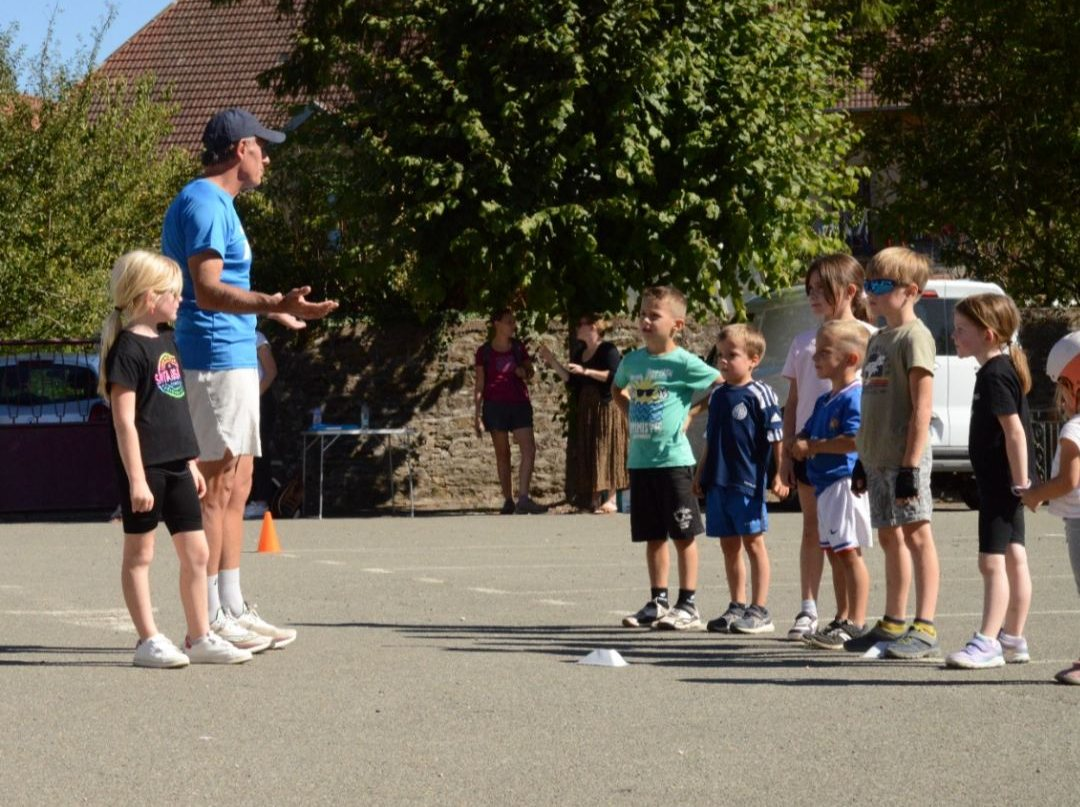
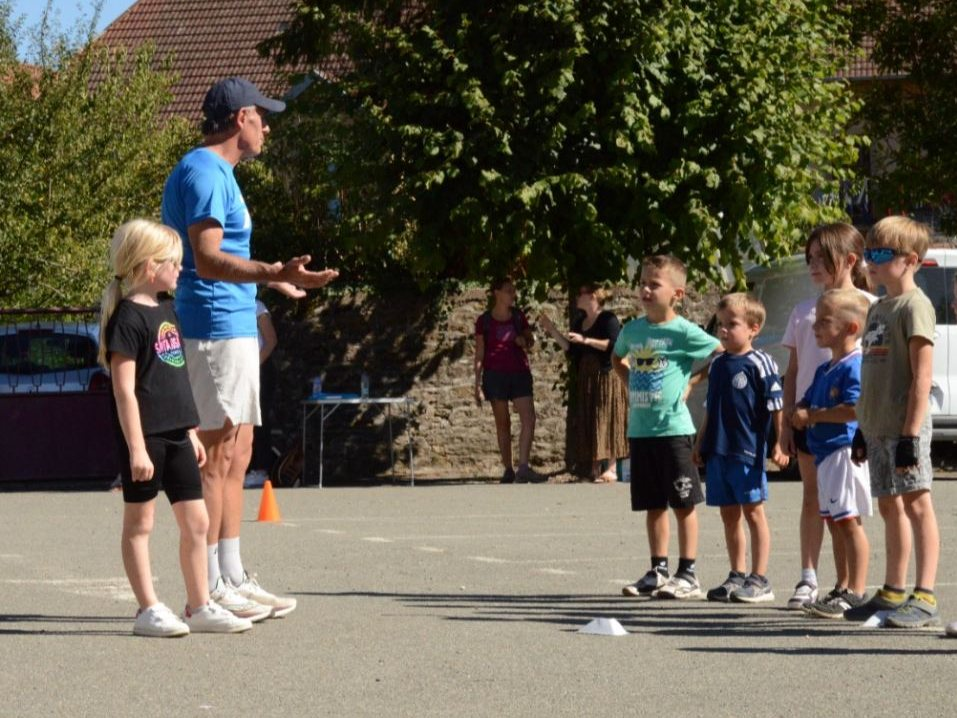
Photos : plus personne coupée, photo floue remplacée, photo verticale remise entière

diff --git a/index.html b/index.html
@@ -48,8 +48,8 @@
         <p style="margin-top:22px"><a href="le-club.html" class="more">Découvrir le club et le projet du président</a></p>
       </div>
       <figure class="figure">
-        <img src="images/campagne-velos.jpg" alt="Des enfants du club et leurs encadrants à vélo, en sortie dans la campagne">
-        <figcaption>Sortie vélo dans la campagne autour de Rougemont.</figcaption>
+        <img src="images/groupe-velos.jpg" alt="Les jeunes du club et leurs encadrants, casqués, avec leurs vélos">
+        <figcaption>Les jeunes du club et leurs encadrants, prêts pour l'entraînement vélo.</figcaption>
       </figure>
     </div>
   </section>
@@ -118,7 +118,7 @@
   <section class="section section--navy">
     <div class="container two-cols">
       <figure class="figure">
-        <img src="images/apprentissage-velo.jpg" alt="Un entraîneur aide une petite fille sur son vélo">
+        <img src="images/briefing.jpg" alt="Un entraîneur explique un exercice à un groupe d'enfants">
       </figure>
       <div class="prose">
         <span class="kicker">Une place privilégiée pour les jeunes</span>

diff --git a/rejoindre.html b/rejoindre.html
@@ -16,7 +16,7 @@
 <header id="site-header"></header>
 
 <main>
-  <section class="pagehead" style="background-image:url('images/bandeaux/campagne-velos.jpg')">
+  <section class="pagehead" style="background-image:url('images/bandeaux/groupe-velos.jpg')">
     <div class="container pagehead__inner">
       <p class="breadcrumb"><a href="index.html">Accueil</a> / Rejoindre le club</p>
       <h1>Rejoindre le club</h1>

diff --git a/partenaires.html b/partenaires.html
@@ -16,7 +16,7 @@
 <header id="site-header"></header>
 
 <main>
-  <section class="pagehead" style="background-image:url('images/bandeaux/groupe-velos.jpg')">
+  <section class="pagehead" style="background-image:url('images/bandeaux/depart-velo.jpg')">
     <div class="container pagehead__inner">
       <p class="breadcrumb"><a href="index.html">Accueil</a> / Partenaires</p>
       <h1>Nos partenaires</h1>
